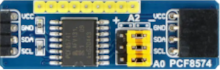
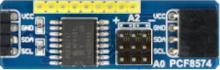
pcf8574: overlay / pin-dirs

Changed region(s): [[0.5727, 0.4, 0.7091, 1.0]]

diff --git a/riocore/plugins/i2c_device/boards/pcf8574.py b/riocore/plugins/i2c_device/boards/pcf8574.py
@@ -1,3 +1,6 @@
+from PyQt5.QtCore import Qt
+
+
 class i2c_device:
     options = {
         "info": "8bit io-expander",
@@ -40,6 +43,7 @@ class i2c_device:
         self.bitvar = setup.get("bitvar", self.options["config"]["bitvar"]["default"])
         self.inputs = setup.get("inputs", self.options["config"]["inputs"]["default"])
         self.outputs = setup.get("outputs", self.options["config"]["outputs"]["default"])
+        self.address = setup.get("address", "0x20")
         expansion = setup.get("expansion", self.options["config"]["expansion"]["default"])
         self.INTERFACE = {}
         self.SIGNALS = {}
@@ -118,19 +122,14 @@ class i2c_device:
             "I2C:OUT": {"direction": "output", "edge": "source", "pos": [200, 35], "type": ["PASSTHROUGH"], "bus": True, "pintype": "PASSTHROUGH", "source": "I2C"},
         }
         if expansion:
-            # TODO: direction / expansion mappping
-            self.PINDEFAULTS.update(
-                {
-                    "IO:P7": {"direction": "all", "edge": "source", "pos": [53, 7], "type": ["FPGA"]},
-                    "IO:P6": {"direction": "all", "edge": "source", "pos": [64, 7], "type": ["FPGA"]},
-                    "IO:P5": {"direction": "all", "edge": "source", "pos": [75, 7], "type": ["FPGA"]},
-                    "IO:P4": {"direction": "all", "edge": "source", "pos": [86, 7], "type": ["FPGA"]},
-                    "IO:P3": {"direction": "all", "edge": "source", "pos": [97, 7], "type": ["FPGA"]},
-                    "IO:P2": {"direction": "all", "edge": "source", "pos": [108, 7], "type": ["FPGA"]},
-                    "IO:P1": {"direction": "all", "edge": "source", "pos": [119, 7], "type": ["FPGA"]},
-                    "IO:P0": {"direction": "all", "edge": "source", "pos": [130, 7], "type": ["FPGA"]},
-                }
-            )
+            for bit in range(8):
+                if (1 << bit) & self.outputs and (1 << bit) & self.inputs:
+                    self.PINDEFAULTS[f"IO:P{bit}"] = {"direction": "all", "edge": "source", "pos": [int(130 - bit * 11), 7], "type": ["FPGA"]}
+                elif (1 << bit) & self.outputs:
+                    self.PINDEFAULTS[f"IO:P{bit}"] = {"direction": "output", "edge": "source", "pos": [int(130 - bit * 11), 7], "type": ["FPGA"]}
+                elif (1 << bit) & self.inputs:
+                    self.PINDEFAULTS[f"IO:P{bit}"] = {"direction": "input", "edge": "source", "pos": [int(130 - bit * 11), 7], "type": ["FPGA"]}
+
         self.PARAMS = {}
         self.INITS = []
         self.STEPS = [
@@ -150,3 +149,13 @@ class i2c_device:
                     "data_in": setup_data_in,
                 }
             )
+
+    def paint_overlay(self, painter):
+        address = int(self.address.split("x")[-1]) - 20
+        painter.setPen(Qt.GlobalColor.black)
+        painter.setBrush(Qt.GlobalColor.yellow)
+        for bit in range(3):
+            if (1 << bit) & address:
+                painter.drawRect(118, 53 - bit * 11, 22, 10)
+            else:
+                painter.drawRect(129, 53 - bit * 11, 22, 10)

diff --git a/riocore/plugins/i2c_device/plugin.py b/riocore/plugins/i2c_device/plugin.py
@@ -63,6 +63,8 @@ class Plugin(PluginBase):
                     self.update_prefixes = board_instance.update_prefixes
                 if hasattr(board_instance, "update_pins"):
                     self.update_pins = board_instance.update_pins
+                if hasattr(board_instance, "paint_overlay"):
+                    self.paint_overlay = board_instance.paint_overlay
                 for signal_name, signal_data in self.SIGNALS.items():
                     if "interface" not in signal_data:
                         signal_data["interface"] = signal_name
